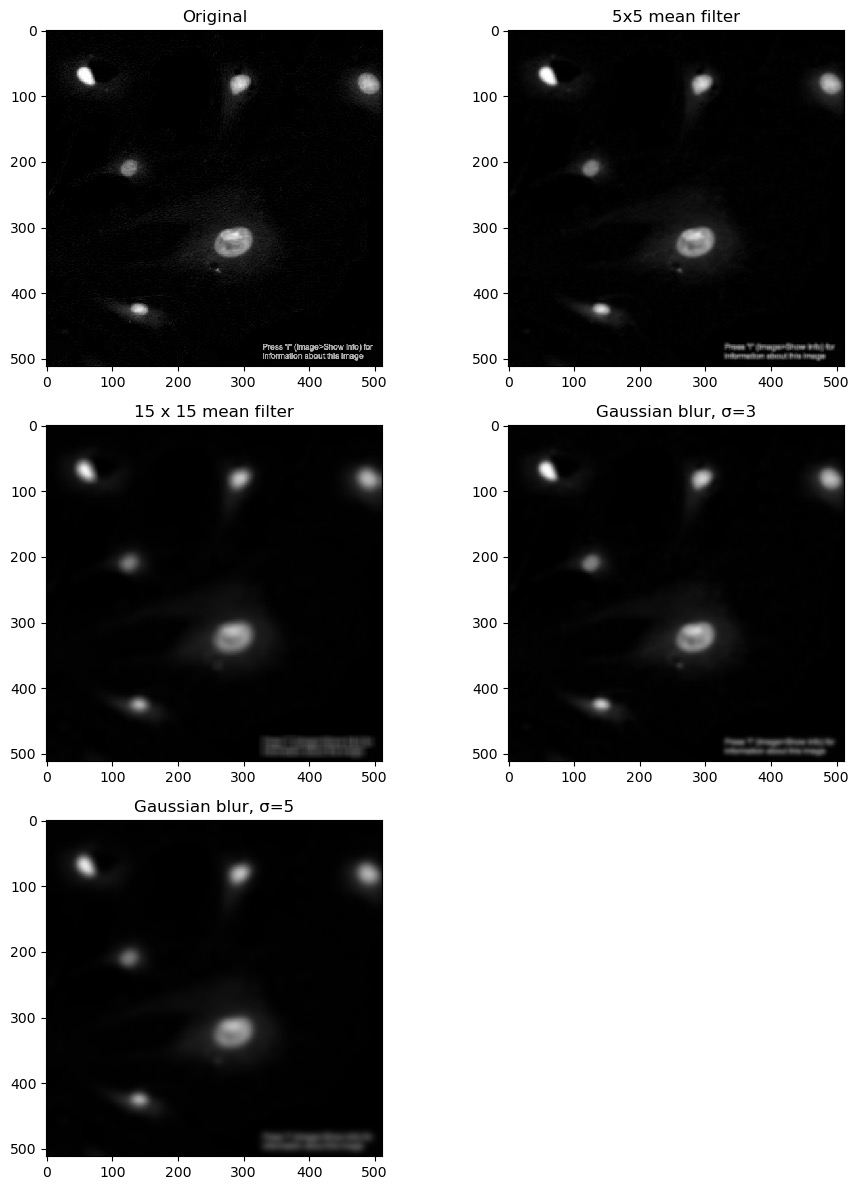
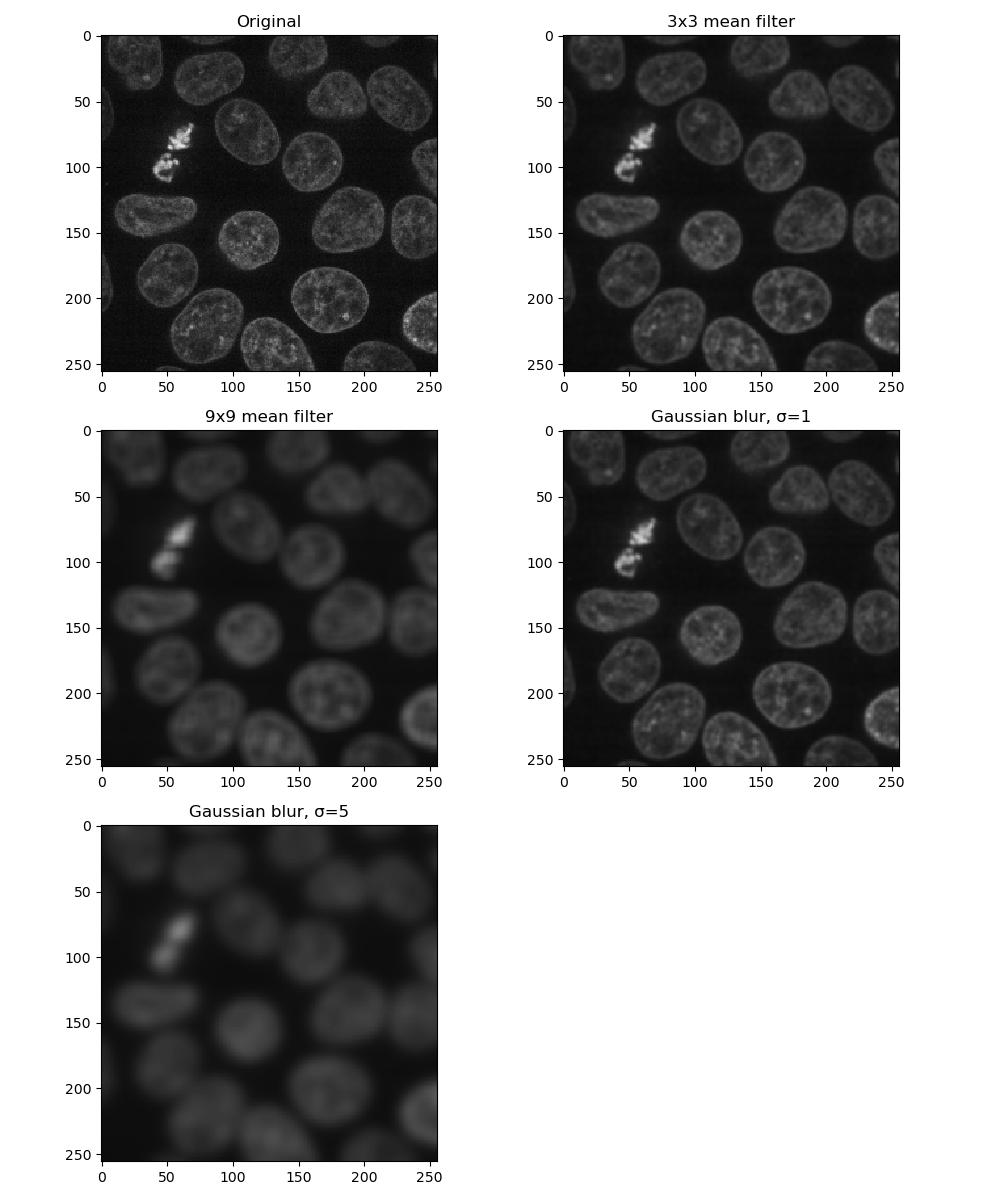
Updates to pisode 2, notes on running carpentries workbench

diff --git a/episodes/02-applying-filters.md b/episodes/02-applying-filters.md
@@ -1,6 +1,7 @@
 ---
+
 title: 'Applying Filters'
-teaching: 10
+teaching: 40
 exercises: 3
 ---
 
@@ -11,7 +12,6 @@ exercises: 3
 ::::::::::::::::::::::::::::::::::::: objectives
 - Apply mean and Gaussian filters to an image
 - Select one of these filtered images to use for processing in subsequent chapters
-- Todo: Discuss Difference of Gaussian and Laplacian of Gaussian algorithms
 ::::::::::::::::::::::::::::::::::::::::::::::::
 
 ## Filters
@@ -26,7 +26,7 @@ Here are two to get started:
 
 A mean filter will, for each pixel:
 
-  - Create a kernel of pixels around it, in a size/shape of the user's choosing
+  - Create a **kernel** of pixels around it, in a size/shape of the user's choosing
   - Take the mean of all pixels within this kernel
   - Assign this new value to the pixel
 
@@ -35,75 +35,96 @@ The kernel in this case can be considered analogous to a 2-dimensional sliding w
 A Gaussian filter is similar to a mean filter, except that pixels near the centre of
 the kernel will have a greater effect on the result.
 
-::::::::::::::::::::::::::::::::::::: challenge 
-## Exercise 7: Applying filters
+You can create a kernel with skimage:
 
-Look at the documentation pages for the mean and Gaussian filters above. Load the last channel
-of FluorescentCells_3channel.tif containing the nuclei, and build a figure displaying it in each
-of the following forms:
+```python
+from skimage.morphology import square
+kernel = square(3)  # create a 3x3 square kernel
+```
+
+There are other shapes of kernel that can be used, and are documented
+[here](https://scikit-image.org/docs/stable/api/skimage.morphology.html).
+
+(Note that as of skimage 0.25.0, the `square` function has been deprecated in
+favour of a new function, [footprint_rectangle](https://scikit-image.org/docs/stable/api/skimage.morphology.html#skimage.morphology.footprint_rectangle).)
+
+::::::::::::::::::::::::::::::::::::: challenge 
+## Exercise 6: Applying filters
+
+Look at the documentation pages for the mean and Gaussian filters above. Load the second channel
+of the 30th frame of the test image [skimage.data.cells3d()](https://scikit-image.org/docs/stable/api/skimage.data.html#skimage.data.cells3d):
+
+```python
+from skimage.data import cells3d
+
+image = cells3d()[30, 1, :, :]
+```
+
+Build a figure displaying this image in each of the following forms:
 
 - original image
-- 5x5 square mean filter applied
-- 15x15 square mean filter
-- Gaussian filter of sigma = 3
+- mean filter using a 3x3 square kernel
+- mean filter using a 9x9 square kernel
+- Gaussian filter of sigma = 1
 - Gaussian filter of sigma = 5
 
 How do the different methods compare?
 
 :::::::::::::::::::::::: solution
 ```python
-import skimage
-import matplotlib.pyplot as plt
+from skimage.data import cells3d
+from skimage.filters import gaussian
+from skimage.filters.rank import mean
+from skimage.morphology import square
 
-img = imread('data/FluorescentCells_3channel.tif')[:, :, -1]
+image = cells3d()[30, 1, :, :]
+matplotlib.pyplot.figure(figsize=(10, 12))
 
-plt.figure(figsize=(10, 12))
-plt.subplot(3, 2, 1)
-plt.imshow(img)
-plt.title('Original')
+matplotlib.pyplot.subplot(3, 2, 1)
+imshow(image)
+matplotlib.pyplot.title('Original')
 
-plt.subplot(3, 2, 2)
-mean5x5 = skimage.filters.rank.mean(img, skimage.morphology.square(5))
-plt.imshow(mean5x5)
-plt.title('5x5 mean filter')
+matplotlib.pyplot.subplot(3, 2, 2)
+imshow(mean(image, footprint=square(3)))
+matplotlib.pyplot.title('3x3 mean filter')
 
-plt.subplot(3, 2, 3)
-mean15x15 = skimage.filters.rank.mean(img, skimage.morphology.square(15))
-plt.imshow(mean15x15)
-plt.title('15 x 15 mean filter')
+matplotlib.pyplot.subplot(3, 2, 3)
+imshow(mean(image, footprint=square(9)))
+matplotlib.pyplot.title('9x9 mean filter')
 
-plt.subplot(3, 2, 4)
-gauss3 = skimage.filters.gaussian(img, 3)
-plt.imshow(gauss3)
-plt.title('Gaussian blur, σ=3')
+matplotlib.pyplot.subplot(3, 2, 4)
+imshow(gaussian(image, sigma=1))
+matplotlib.pyplot.title('Gaussian blur, σ=1')
 
-plt.subplot(3, 2, 5)
-gauss5 = skimage.filters.gaussian(img, 5)
-plt.imshow(gauss5)
-plt.title('Gaussian blur, σ=5')
+matplotlib.pyplot.subplot(3, 2, 5)
+imshow(gaussian(image, sigma=5))
+matplotlib.pyplot.title('Gaussian blur, σ=5')
 ```
 
 ![](fig/2_1_filters.jpg){alt='Filters'}
 
-Larger mean kernels and sigma values will result in a greater smoothing
-effect and a more blurred image.
+Larger kernels and sigma values will result in a greater smoothing
+effect and a more blurred image - as you can see, it is possible to
+over-blur the image.
 :::::::::::::::::::::::::::::::::
 :::::::::::::::::::::::::::::::::::::::::::::::
 
 ## Removing the background
 
-Sometimes when we're trying to isolate the foreground from the background, the two
-are not entirely distinct from each other. In cases like this, a rolling ball
+Eventually we're going to want to isolate the foreground from the background. In some
+images, this may be difficult especially if the two are not entirely distinct from each
+other, or if the background is not a uniform shade. In cases like this, a rolling ball
 algorithm can be applied. The rolling ball estimates the background intensity of an
 image by using the pixel values to translate the image into a height map, and then
 rolling a ball of a given radius across it. Additional information on how it works
 can be found [here](https://www.researchgate.net/figure/Schematic-diagram-of-background-subtraction-by-the-rolling-ball-method-the-histogram_fig3_319985119).
 
 ::::::::::::::::::::::::::::::::::::: challenge
-## Exercise 8: Rolling ball background intensity
+## Exercise 7: Rolling ball background intensity
 
 Look at the [scikit-image documentation](https://scikit-image.org/docs/stable/auto_examples/segmentation/plot_rolling_ball.html)
-on the rolling ball filter. Load the example image `skimage.data.coins` and display:
+on the rolling ball filter. Load the example image [skimage.data.coins](https://scikit-image.org/docs/stable/api/skimage.data.html#skimage.data.coins)
+and display:
 
 - the original image
 - image with a rolling ball of radius 100 applied
@@ -118,36 +139,36 @@ Compute time can be found using Python's datetime library:
 
 ```python
 import datetime
-import skimage
-import matplotlib.pyplot as plt
+from skimage.data import coins
+from skimage.restoration import rolling_ball
 
-img = skimage.data.coins()
+image = coins()
+matplotlib.pyplot.figure(figsize=(10, 12))
+
 t0 = datetime.datetime.now()
+matplotlib.pyplot.subplot(2, 2, 1)
+imshow(image)
+matplotlib.pyplot.title('Original')
 
-plt.subplot(2, 2, 1)
-plt.imshow(img)
 t1 = datetime.datetime.now()
-plt.title('Original')
+matplotlib.pyplot.subplot(2, 2, 2)
+rolling_ball_100 = rolling_ball(image, radius=100)
+imshow(rolling_ball_100)
+matplotlib.pyplot.title('Rolling ball, r=100')
 
-plt.subplot(2, 2, 2)
-rolling_ball_100 = skimage.restoration.rolling_ball(img, radius=100)
-plt.imshow(rolling_ball_100)
 t2 = datetime.datetime.now()
-plt.title('Rolling ball, r=100')
+matplotlib.pyplot.subplot(2, 2, 3)
+rolling_ball_50 = rolling_ball(image, radius=50)
+imshow(rolling_ball_50)
+matplotlib.pyplot.title('Rolling ball, r=50')
 
-plt.subplot(2, 2, 3)
-rolling_ball_50 = skimage.restoration.rolling_ball(img, radius=50)
-plt.imshow(rolling_ball_50)
 t3 = datetime.datetime.now()
-plt.title('Rolling ball, r=50')
+matplotlib.pyplot.subplot(2, 2, 4)
+imshow(image - rolling_ball_50)
+matplotlib.pyplot.title('Original - rolling ball r50')
 
-plt.subplot(2, 2, 4)
-plt.imshow(img - rolling_ball_50)
-plt.title('Original - rolling ball r50')
-
-plt.show()
 print('Original image:', t1 - t0)
-print('Rolling ball 100: ', t2 - t1)
+print('Rolling ball 100:', t2 - t1)
 print('Rolling ball 50:', t3 - t2)
 print('Total:', t3 - t0)
 ```
@@ -164,7 +185,7 @@ the Gaussian filter.
 
 In a [Difference of Gaussian](https://scikit-image.org/docs/stable/api/skimage.filters.html#skimage.filters.difference_of_gaussians),
 two Gaussian filters are taken of the image, each with a different sigma value.
-The larger filter is then subtracted from the first to give an image where image
+The larger filter is then subtracted from the first to give an image where
 features are effectively highlighted by an area of high contrast.
 
 In a Laplacian of Gaussian, a Gaussian-filtered image is supplied to a
@@ -172,36 +193,54 @@ In a Laplacian of Gaussian, a Gaussian-filtered image is supplied to a
 filter. This eliminates the need to manually select two sigma values as with Difference of Gaussian.
 
 ::::::::::::::::::::::::::::::::::::: challenge
-## Exercise 9: Dogs and logs
+## Exercise 8: Dogs and logs
 
-Load the image 'Ersi_organoid_WT2.nd2' and select the end channel of the 16th
-frame, i.e. `img[15, 2, :, :]`. Display a figure of:
+Load the second channel of the 30th frame of [skimage.data.cells3d()](https://scikit-image.org/docs/stable/api/skimage.data.html#skimage.data.cells3d)
+again:
+
+```python
+from skimage.data import cells3d
+
+image = cells3d()[30, 1, :, :]
+```
+
+Display a figure of:
 
 - The original image
 - Image with a Difference of Gaussians applied with sigma values 2 and 4
 - Image with a Laplacian of Gaussians applied. Note that the Laplace filter linked
-  above does not perform the Gaussian filter for you.
+  above does not perform the Gaussian filter for you, so you will need to pass the
+  image through `gaussian()` first.
 
 :::::::::::::::::::::::: solution 
 
 ```python
-plt.subplot(1, 3, 1)
-imshow(img[15, 2, :, :])
+from skimage.data import cells3d
+from skimage.filters import difference_of_gaussians, laplace
 
-plt.subplot(1, 3, 2)
-imshow(skimage.filters.difference_of_gaussians(img[15, 2, :, :], 2, 4))
+image = cells3d()[30, 1, :, :]
+matplotlib.pyplot.figure(figsize=(10, 12))
 
-plt.subplot(1, 3, 3)
-imshow(skimage.filters.laplace(img[15, 2, :, :]))
+matplotlib.pyplot.subplot(2, 2, 1)
+imshow(image)
+matplotlib.pyplot.title('Original')
+
+matplotlib.pyplot.subplot(2, 2, 2)
+imshow(difference_of_gaussians(image, 1, 2), cmap='gray')
+matplotlib.pyplot.title('Difference of Gaussians')
+
+matplotlib.pyplot.subplot(2, 2, 3)
+imshow(laplace(gaussian(image, sigma=2)), cmap='gray')
+matplotlib.pyplot.title('Laplacian of Gaussian')
 ```
 
 ![](fig/2_3_dogs_and_logs.jpg){alt='Dogs and logs'}
 
 :::::::::::::::::::::::::::::::::
 
-## Exercise 10: Choosing a filter
+## Exercise 9: Choosing a filter
 
-Look at the images you produced in exercises 7 and 9, and select one to use in
+Look at the images you produced in exercises 6 and 8, and select one to use in
 subsequent chapters for thresholding and segmentation!
 :::::::::::::::::::::::::::::::::::::::::::::::
 

diff --git a/instructors/instructor-notes.md b/instructors/instructor-notes.md
@@ -2,4 +2,21 @@
 title: Instructor Notes
 ---
 
-This is a placeholder file. Please add content here.
+# Building the course
+
+Set up R:
+
+conda create -p path/to/conda -c conda-forge r-base pandoc
+
+Install sandpaper as per the [docs](https://carpentries.github.io/sandpaper-docs):
+
+```r
+install.packages(c('sandpaper', 'varnish', 'pegboard'), c("https://carpentries.r-universe.dev/", getOption("repos")))
+```
+
+To build and serve interactively:
+
+```r
+library('sandpaper')
+sandpaper::serve()
+```
